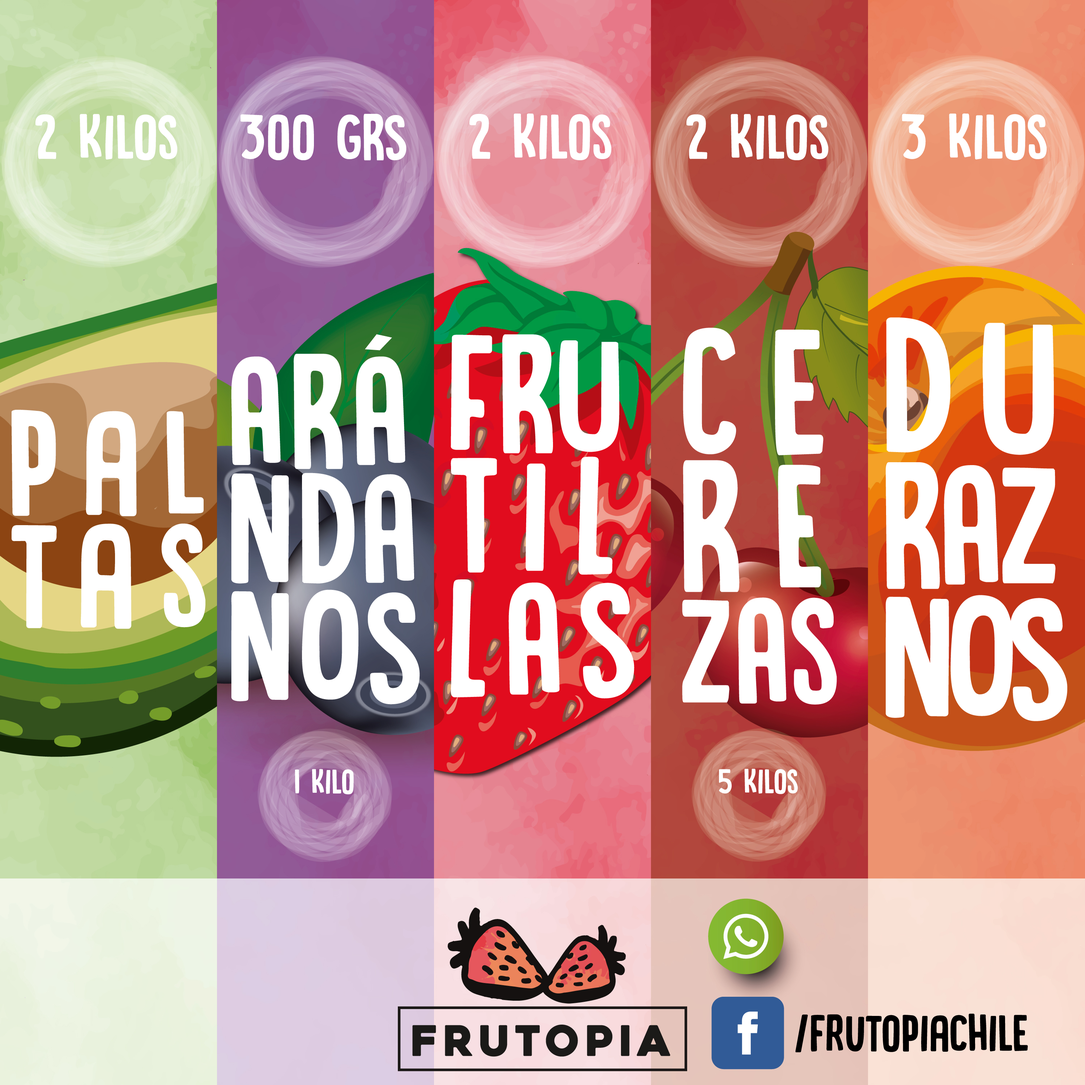
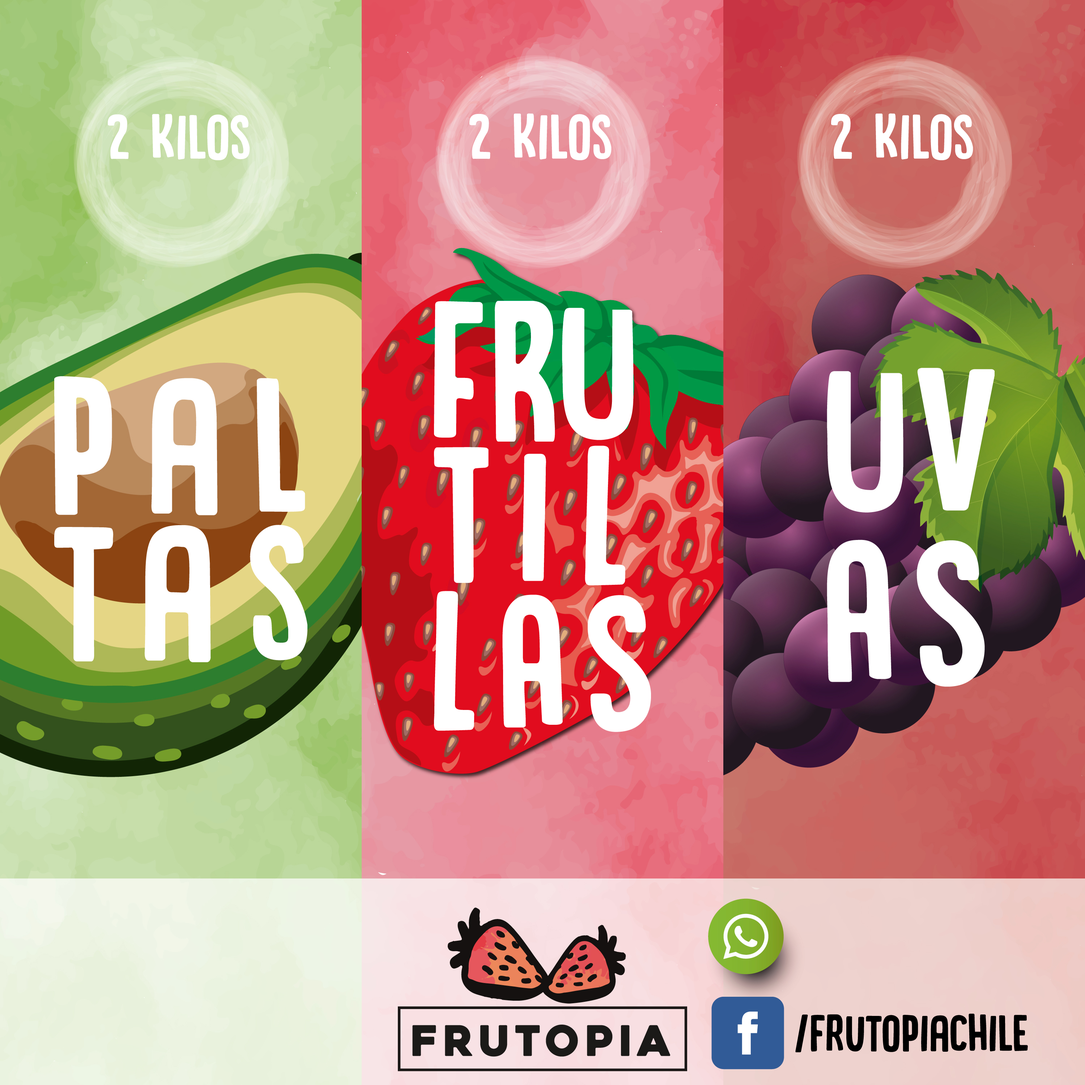
Difusion multiple

diff --git a/templates/difusion_multiple.html b/templates/difusion_multiple.html
@@ -48,20 +48,13 @@
               </svg>
             <input type="text" class="login__input pass" placeholder="Frutillas" 
             name="frutillas" size="25" value="{{ request.form.frutillas }}"/>
-          </div>
+          </div>|
 		  <div class="login__row">
             <svg class="login__icon svg-phone" viewBox="0 0 59 59" width="512px" height="512px">
                 <path d="M48.034,16.529c0.097-0.028,0.193-0.056,0.291-0.085c0.297-0.088,0.535-0.31,0.646-0.598c0.059-0.153,0.073-0.314,0.055-0.473c-0.005-0.171-0.042-0.339-0.132-0.489c-1.857-3.068-5.131-5.108-9.743-6.081c0.567-0.781,0.99-1.623,1.259-2.521c0.04-0.134,0.047-0.269,0.032-0.4c-0.012-0.396-0.25-0.762-0.641-0.907c-3.667-1.365-5.9-0.792-7.122-0.081c-0.334-0.382-0.803-0.659-1.374-0.832l-0.269-3.147c-0.026-0.298-0.184-0.57-0.431-0.739c-0.247-0.169-0.557-0.219-0.845-0.135l-5,1.456c-0.262,0.076-0.48,0.255-0.607,0.497c-0.126,0.241-0.148,0.523-0.062,0.781l0.696,2.073c-1.239-0.688-3.451-1.207-7.036,0.127c-0.391,0.145-0.629,0.511-0.641,0.907c-0.015,0.131-0.008,0.266,0.032,0.4c0.282,0.943,0.725,1.818,1.317,2.62c-4.564,0.969-7.617,2.948-9.297,6.021c-0.081,0.148-0.112,0.312-0.112,0.477c-0.014,0.157,0.003,0.317,0.065,0.467c0.115,0.279,0.349,0.491,0.638,0.578c0.356,0.106,0.71,0.203,1.063,0.29c-1.917,2.668-2.853,6.394-2.853,11.318C7.961,41.71,21.316,59,29.5,59s21.539-17.29,21.539-30.949C51.038,23.002,50.053,19.211,48.034,16.529z M11.685,14.812c1.746-2.204,4.686-3.578,8.943-4.18c0.386-0.055,0.705-0.329,0.817-0.702c0.032-0.108,0.041-0.218,0.036-0.327c0.013-0.297-0.102-0.591-0.331-0.794c-0.741-0.656-1.31-1.396-1.706-2.207c3.743-1.081,4.932,0.482,4.972,0.536c0.233,0.36,0.671,0.533,1.087,0.426c0.061-0.015,0.119-0.036,0.174-0.062l0.15,0.446l1.13,3.369c0.072,0.213,0.21,0.385,0.384,0.505c0.005,0.003,0.008,0.009,0.013,0.012c0.018,0.012,0.04,0.013,0.059,0.024c0.081,0.047,0.166,0.082,0.257,0.105c0.017,0.004,0.031,0.016,0.048,0.019c0.023,0.004,0.048-0.003,0.071-0.001C27.827,11.986,27.864,12,27.904,12c0.068,0,0.137-0.007,0.205-0.021l2.937-0.614c0.495-0.104,0.835-0.561,0.792-1.064v0c0,0,0,0,0,0L31.58,7.283c0.122,0.122,0.277,0.215,0.451,0.264c0.404,0.112,0.844-0.048,1.091-0.388c0.053-0.073,1.243-1.637,4.982-0.558c-0.382,0.768-0.926,1.48-1.634,2.124c-0.225,0.204-0.336,0.496-0.321,0.791c-0.004,0.109,0.005,0.22,0.039,0.328c0.114,0.371,0.433,0.642,0.817,0.695c4.345,0.608,7.413,2.019,9.331,4.29c-4.077,1.004-6.265,0.522-7.398-0.107c-1.092-0.606-1.323-1.41-1.327-1.424c-0.109-0.479-0.538-0.809-1.041-0.776c-0.49,0.033-0.885,0.417-0.93,0.906c-0.502,5.43-4.277,7.462-5.634,8.022c-1.357-0.56-5.132-2.592-5.634-8.022c-0.039-0.424-0.346-0.771-0.759-0.874c-0.079-0.02-0.158-0.029-0.237-0.029c-0.335,0-0.657,0.17-0.845,0.459C22.421,13.15,19.906,16.826,11.685,14.812z M29.146,2.301l0.228,2.668c0,0.001,0,0.001,0,0.002l0.396,4.618L28.57,9.839l-1.474-4.394l0-0.001l-0.778-2.321L29.146,2.301zM29.5,57C22.426,57,9.961,40.264,9.961,28.051c0-5.023,1.029-8.591,3.118-10.916c5.034,0.828,8.027-0.416,9.621-1.569c1.373,5.661,5.98,7.552,6.975,7.898c0.106,0.037,0.217,0.056,0.329,0.056c0.111,0,0.222-0.019,0.329-0.056c0.971-0.338,5.385-2.146,6.872-7.499c0.193,0.152,0.409,0.301,0.651,0.442c1.872,1.092,4.542,1.276,7.933,0.584c2.178,2.322,3.251,5.937,3.251,11.06C49.038,40.264,36.574,57,29.5,57zM17.499,21.672c0,0-1.516,5.294-1.516,5.805c0,0.511,0.199,0.992,0.561,1.354c0.361,0.362,0.842,0.561,1.353,0.561c0.511,0,0.992-0.199,1.353-0.561c0.362-0.362,0.561-0.842,0.561-1.354c0-0.511-1.516-5.805-1.516-5.805C18.173,21.281,17.62,21.281,17.499,21.672zM29.327,25.672c0,0-1.516,5.294-1.516,5.805c0,0.511,0.199,0.992,0.561,1.354c0.361,0.362,0.842,0.561,1.353,0.561c0.511,0,0.992-0.199,1.353-0.561c0.362-0.362,0.561-0.842,0.561-1.354c0-0.511-1.516-5.805-1.516-5.805C30.002,25.281,29.448,25.281,29.327,25.672zM41.295,21.66c-0.122-0.391-0.675-0.391-0.796,0c0,0-1.516,5.294-1.516,5.805c0,0.511,0.199,0.992,0.561,1.354c0.361,0.362,0.842,0.561,1.353,0.561c0.511,0,0.992-0.199,1.353-0.561c0.362-0.362,0.561-0.842,0.561-1.354C42.811,26.953,41.295,21.66,41.295,21.66zM22.327,34.684c0,0-1.516,5.294-1.516,5.805c0,0.511,0.199,0.992,0.561,1.354c0.361,0.362,0.842,0.561,1.353,0.561c0.511,0,0.992-0.199,1.353-0.561c0.362-0.362,0.561-0.842,0.561-1.354c0-0.511-1.516-5.805-1.516-5.805C23.002,34.293,22.448,34.293,22.327,34.684zM29.327,43.66c0,0-1.516,5.294-1.516,5.805c0,0.511,0.199,0.992,0.561,1.354c0.361,0.362,0.842,0.561,1.353,0.561c0.511,0,0.992-0.199,1.353-0.561c0.362-0.362,0.561-0.842,0.561-1.354c0-0.511-1.516-5.805-1.516-5.805C30.002,43.269,29.448,43.269,29.327,43.66zM36.327,34.672c0,0-1.516,5.294-1.516,5.805c0,0.511,0.199,0.992,0.561,1.354c0.361,0.362,0.842,0.561,1.353,0.561c0.511,0,0.992-0.199,1.353-0.561c0.362-0.362,0.561-0.842,0.561-1.354c0-0.511-1.516-5.805-1.516-5.805C37.002,34.281,36.448,34.281,36.327,34.672z" fill="#FFFFFF"/>
               </svg>
-            <input type="text" class="login__input pass" placeholder="Cerezas 2kg" 
-            name="cerezas2" size="25" value="{{ request.form.cerezas2 }}"/>
-          </div>
-		  <div class="login__row">
-            <svg class="login__icon svg-phone" viewBox="0 0 59 59" width="512px" height="512px">
-                <path d="M48.034,16.529c0.097-0.028,0.193-0.056,0.291-0.085c0.297-0.088,0.535-0.31,0.646-0.598c0.059-0.153,0.073-0.314,0.055-0.473c-0.005-0.171-0.042-0.339-0.132-0.489c-1.857-3.068-5.131-5.108-9.743-6.081c0.567-0.781,0.99-1.623,1.259-2.521c0.04-0.134,0.047-0.269,0.032-0.4c-0.012-0.396-0.25-0.762-0.641-0.907c-3.667-1.365-5.9-0.792-7.122-0.081c-0.334-0.382-0.803-0.659-1.374-0.832l-0.269-3.147c-0.026-0.298-0.184-0.57-0.431-0.739c-0.247-0.169-0.557-0.219-0.845-0.135l-5,1.456c-0.262,0.076-0.48,0.255-0.607,0.497c-0.126,0.241-0.148,0.523-0.062,0.781l0.696,2.073c-1.239-0.688-3.451-1.207-7.036,0.127c-0.391,0.145-0.629,0.511-0.641,0.907c-0.015,0.131-0.008,0.266,0.032,0.4c0.282,0.943,0.725,1.818,1.317,2.62c-4.564,0.969-7.617,2.948-9.297,6.021c-0.081,0.148-0.112,0.312-0.112,0.477c-0.014,0.157,0.003,0.317,0.065,0.467c0.115,0.279,0.349,0.491,0.638,0.578c0.356,0.106,0.71,0.203,1.063,0.29c-1.917,2.668-2.853,6.394-2.853,11.318C7.961,41.71,21.316,59,29.5,59s21.539-17.29,21.539-30.949C51.038,23.002,50.053,19.211,48.034,16.529z M11.685,14.812c1.746-2.204,4.686-3.578,8.943-4.18c0.386-0.055,0.705-0.329,0.817-0.702c0.032-0.108,0.041-0.218,0.036-0.327c0.013-0.297-0.102-0.591-0.331-0.794c-0.741-0.656-1.31-1.396-1.706-2.207c3.743-1.081,4.932,0.482,4.972,0.536c0.233,0.36,0.671,0.533,1.087,0.426c0.061-0.015,0.119-0.036,0.174-0.062l0.15,0.446l1.13,3.369c0.072,0.213,0.21,0.385,0.384,0.505c0.005,0.003,0.008,0.009,0.013,0.012c0.018,0.012,0.04,0.013,0.059,0.024c0.081,0.047,0.166,0.082,0.257,0.105c0.017,0.004,0.031,0.016,0.048,0.019c0.023,0.004,0.048-0.003,0.071-0.001C27.827,11.986,27.864,12,27.904,12c0.068,0,0.137-0.007,0.205-0.021l2.937-0.614c0.495-0.104,0.835-0.561,0.792-1.064v0c0,0,0,0,0,0L31.58,7.283c0.122,0.122,0.277,0.215,0.451,0.264c0.404,0.112,0.844-0.048,1.091-0.388c0.053-0.073,1.243-1.637,4.982-0.558c-0.382,0.768-0.926,1.48-1.634,2.124c-0.225,0.204-0.336,0.496-0.321,0.791c-0.004,0.109,0.005,0.22,0.039,0.328c0.114,0.371,0.433,0.642,0.817,0.695c4.345,0.608,7.413,2.019,9.331,4.29c-4.077,1.004-6.265,0.522-7.398-0.107c-1.092-0.606-1.323-1.41-1.327-1.424c-0.109-0.479-0.538-0.809-1.041-0.776c-0.49,0.033-0.885,0.417-0.93,0.906c-0.502,5.43-4.277,7.462-5.634,8.022c-1.357-0.56-5.132-2.592-5.634-8.022c-0.039-0.424-0.346-0.771-0.759-0.874c-0.079-0.02-0.158-0.029-0.237-0.029c-0.335,0-0.657,0.17-0.845,0.459C22.421,13.15,19.906,16.826,11.685,14.812z M29.146,2.301l0.228,2.668c0,0.001,0,0.001,0,0.002l0.396,4.618L28.57,9.839l-1.474-4.394l0-0.001l-0.778-2.321L29.146,2.301zM29.5,57C22.426,57,9.961,40.264,9.961,28.051c0-5.023,1.029-8.591,3.118-10.916c5.034,0.828,8.027-0.416,9.621-1.569c1.373,5.661,5.98,7.552,6.975,7.898c0.106,0.037,0.217,0.056,0.329,0.056c0.111,0,0.222-0.019,0.329-0.056c0.971-0.338,5.385-2.146,6.872-7.499c0.193,0.152,0.409,0.301,0.651,0.442c1.872,1.092,4.542,1.276,7.933,0.584c2.178,2.322,3.251,5.937,3.251,11.06C49.038,40.264,36.574,57,29.5,57zM17.499,21.672c0,0-1.516,5.294-1.516,5.805c0,0.511,0.199,0.992,0.561,1.354c0.361,0.362,0.842,0.561,1.353,0.561c0.511,0,0.992-0.199,1.353-0.561c0.362-0.362,0.561-0.842,0.561-1.354c0-0.511-1.516-5.805-1.516-5.805C18.173,21.281,17.62,21.281,17.499,21.672zM29.327,25.672c0,0-1.516,5.294-1.516,5.805c0,0.511,0.199,0.992,0.561,1.354c0.361,0.362,0.842,0.561,1.353,0.561c0.511,0,0.992-0.199,1.353-0.561c0.362-0.362,0.561-0.842,0.561-1.354c0-0.511-1.516-5.805-1.516-5.805C30.002,25.281,29.448,25.281,29.327,25.672zM41.295,21.66c-0.122-0.391-0.675-0.391-0.796,0c0,0-1.516,5.294-1.516,5.805c0,0.511,0.199,0.992,0.561,1.354c0.361,0.362,0.842,0.561,1.353,0.561c0.511,0,0.992-0.199,1.353-0.561c0.362-0.362,0.561-0.842,0.561-1.354C42.811,26.953,41.295,21.66,41.295,21.66zM22.327,34.684c0,0-1.516,5.294-1.516,5.805c0,0.511,0.199,0.992,0.561,1.354c0.361,0.362,0.842,0.561,1.353,0.561c0.511,0,0.992-0.199,1.353-0.561c0.362-0.362,0.561-0.842,0.561-1.354c0-0.511-1.516-5.805-1.516-5.805C23.002,34.293,22.448,34.293,22.327,34.684zM29.327,43.66c0,0-1.516,5.294-1.516,5.805c0,0.511,0.199,0.992,0.561,1.354c0.361,0.362,0.842,0.561,1.353,0.561c0.511,0,0.992-0.199,1.353-0.561c0.362-0.362,0.561-0.842,0.561-1.354c0-0.511-1.516-5.805-1.516-5.805C30.002,43.269,29.448,43.269,29.327,43.66zM36.327,34.672c0,0-1.516,5.294-1.516,5.805c0,0.511,0.199,0.992,0.561,1.354c0.361,0.362,0.842,0.561,1.353,0.561c0.511,0,0.992-0.199,1.353-0.561c0.362-0.362,0.561-0.842,0.561-1.354c0-0.511-1.516-5.805-1.516-5.805C37.002,34.281,36.448,34.281,36.327,34.672z" fill="#FFFFFF"/>
-              </svg>
-            <input type="text" class="login__input pass" placeholder="Cerezas 5kg" 
-            name="cerezas5" size="25" value="{{ request.form.cerezas5 }}"/>
+            <input type="text" class="login__input pass" placeholder="Uvas" 
+            name="uvas" size="25" value="{{ request.form.uvas }}"/>
           </div>
 		  <div class="login__row">
             <svg class="login__icon svg-phone" viewBox="0 0 59 59" width="512px" height="512px">
@@ -69,27 +62,6 @@
               </svg>
             <input type="text" class="login__input pass" placeholder="Paltas" 
             name="paltas" size="25" value="{{ request.form.paltas }}"/>
-          </div>
-		  <div class="login__row">
-            <svg class="login__icon svg-phone" viewBox="0 0 59 59" width="512px" height="512px">
-                <path d="M48.034,16.529c0.097-0.028,0.193-0.056,0.291-0.085c0.297-0.088,0.535-0.31,0.646-0.598c0.059-0.153,0.073-0.314,0.055-0.473c-0.005-0.171-0.042-0.339-0.132-0.489c-1.857-3.068-5.131-5.108-9.743-6.081c0.567-0.781,0.99-1.623,1.259-2.521c0.04-0.134,0.047-0.269,0.032-0.4c-0.012-0.396-0.25-0.762-0.641-0.907c-3.667-1.365-5.9-0.792-7.122-0.081c-0.334-0.382-0.803-0.659-1.374-0.832l-0.269-3.147c-0.026-0.298-0.184-0.57-0.431-0.739c-0.247-0.169-0.557-0.219-0.845-0.135l-5,1.456c-0.262,0.076-0.48,0.255-0.607,0.497c-0.126,0.241-0.148,0.523-0.062,0.781l0.696,2.073c-1.239-0.688-3.451-1.207-7.036,0.127c-0.391,0.145-0.629,0.511-0.641,0.907c-0.015,0.131-0.008,0.266,0.032,0.4c0.282,0.943,0.725,1.818,1.317,2.62c-4.564,0.969-7.617,2.948-9.297,6.021c-0.081,0.148-0.112,0.312-0.112,0.477c-0.014,0.157,0.003,0.317,0.065,0.467c0.115,0.279,0.349,0.491,0.638,0.578c0.356,0.106,0.71,0.203,1.063,0.29c-1.917,2.668-2.853,6.394-2.853,11.318C7.961,41.71,21.316,59,29.5,59s21.539-17.29,21.539-30.949C51.038,23.002,50.053,19.211,48.034,16.529z M11.685,14.812c1.746-2.204,4.686-3.578,8.943-4.18c0.386-0.055,0.705-0.329,0.817-0.702c0.032-0.108,0.041-0.218,0.036-0.327c0.013-0.297-0.102-0.591-0.331-0.794c-0.741-0.656-1.31-1.396-1.706-2.207c3.743-1.081,4.932,0.482,4.972,0.536c0.233,0.36,0.671,0.533,1.087,0.426c0.061-0.015,0.119-0.036,0.174-0.062l0.15,0.446l1.13,3.369c0.072,0.213,0.21,0.385,0.384,0.505c0.005,0.003,0.008,0.009,0.013,0.012c0.018,0.012,0.04,0.013,0.059,0.024c0.081,0.047,0.166,0.082,0.257,0.105c0.017,0.004,0.031,0.016,0.048,0.019c0.023,0.004,0.048-0.003,0.071-0.001C27.827,11.986,27.864,12,27.904,12c0.068,0,0.137-0.007,0.205-0.021l2.937-0.614c0.495-0.104,0.835-0.561,0.792-1.064v0c0,0,0,0,0,0L31.58,7.283c0.122,0.122,0.277,0.215,0.451,0.264c0.404,0.112,0.844-0.048,1.091-0.388c0.053-0.073,1.243-1.637,4.982-0.558c-0.382,0.768-0.926,1.48-1.634,2.124c-0.225,0.204-0.336,0.496-0.321,0.791c-0.004,0.109,0.005,0.22,0.039,0.328c0.114,0.371,0.433,0.642,0.817,0.695c4.345,0.608,7.413,2.019,9.331,4.29c-4.077,1.004-6.265,0.522-7.398-0.107c-1.092-0.606-1.323-1.41-1.327-1.424c-0.109-0.479-0.538-0.809-1.041-0.776c-0.49,0.033-0.885,0.417-0.93,0.906c-0.502,5.43-4.277,7.462-5.634,8.022c-1.357-0.56-5.132-2.592-5.634-8.022c-0.039-0.424-0.346-0.771-0.759-0.874c-0.079-0.02-0.158-0.029-0.237-0.029c-0.335,0-0.657,0.17-0.845,0.459C22.421,13.15,19.906,16.826,11.685,14.812z M29.146,2.301l0.228,2.668c0,0.001,0,0.001,0,0.002l0.396,4.618L28.57,9.839l-1.474-4.394l0-0.001l-0.778-2.321L29.146,2.301zM29.5,57C22.426,57,9.961,40.264,9.961,28.051c0-5.023,1.029-8.591,3.118-10.916c5.034,0.828,8.027-0.416,9.621-1.569c1.373,5.661,5.98,7.552,6.975,7.898c0.106,0.037,0.217,0.056,0.329,0.056c0.111,0,0.222-0.019,0.329-0.056c0.971-0.338,5.385-2.146,6.872-7.499c0.193,0.152,0.409,0.301,0.651,0.442c1.872,1.092,4.542,1.276,7.933,0.584c2.178,2.322,3.251,5.937,3.251,11.06C49.038,40.264,36.574,57,29.5,57zM17.499,21.672c0,0-1.516,5.294-1.516,5.805c0,0.511,0.199,0.992,0.561,1.354c0.361,0.362,0.842,0.561,1.353,0.561c0.511,0,0.992-0.199,1.353-0.561c0.362-0.362,0.561-0.842,0.561-1.354c0-0.511-1.516-5.805-1.516-5.805C18.173,21.281,17.62,21.281,17.499,21.672zM29.327,25.672c0,0-1.516,5.294-1.516,5.805c0,0.511,0.199,0.992,0.561,1.354c0.361,0.362,0.842,0.561,1.353,0.561c0.511,0,0.992-0.199,1.353-0.561c0.362-0.362,0.561-0.842,0.561-1.354c0-0.511-1.516-5.805-1.516-5.805C30.002,25.281,29.448,25.281,29.327,25.672zM41.295,21.66c-0.122-0.391-0.675-0.391-0.796,0c0,0-1.516,5.294-1.516,5.805c0,0.511,0.199,0.992,0.561,1.354c0.361,0.362,0.842,0.561,1.353,0.561c0.511,0,0.992-0.199,1.353-0.561c0.362-0.362,0.561-0.842,0.561-1.354C42.811,26.953,41.295,21.66,41.295,21.66zM22.327,34.684c0,0-1.516,5.294-1.516,5.805c0,0.511,0.199,0.992,0.561,1.354c0.361,0.362,0.842,0.561,1.353,0.561c0.511,0,0.992-0.199,1.353-0.561c0.362-0.362,0.561-0.842,0.561-1.354c0-0.511-1.516-5.805-1.516-5.805C23.002,34.293,22.448,34.293,22.327,34.684zM29.327,43.66c0,0-1.516,5.294-1.516,5.805c0,0.511,0.199,0.992,0.561,1.354c0.361,0.362,0.842,0.561,1.353,0.561c0.511,0,0.992-0.199,1.353-0.561c0.362-0.362,0.561-0.842,0.561-1.354c0-0.511-1.516-5.805-1.516-5.805C30.002,43.269,29.448,43.269,29.327,43.66zM36.327,34.672c0,0-1.516,5.294-1.516,5.805c0,0.511,0.199,0.992,0.561,1.354c0.361,0.362,0.842,0.561,1.353,0.561c0.511,0,0.992-0.199,1.353-0.561c0.362-0.362,0.561-0.842,0.561-1.354c0-0.511-1.516-5.805-1.516-5.805C37.002,34.281,36.448,34.281,36.327,34.672z" fill="#FFFFFF"/>
-              </svg>
-            <input type="text" class="login__input pass" placeholder="Arandanos 300 gr" 
-            name="arandanos3" size="25" value="{{ request.form.arandanos3 }}"/>
-          </div>
-		  <div class="login__row">
-            <svg class="login__icon svg-phone" viewBox="0 0 59 59" width="512px" height="512px">
-                <path d="M48.034,16.529c0.097-0.028,0.193-0.056,0.291-0.085c0.297-0.088,0.535-0.31,0.646-0.598c0.059-0.153,0.073-0.314,0.055-0.473c-0.005-0.171-0.042-0.339-0.132-0.489c-1.857-3.068-5.131-5.108-9.743-6.081c0.567-0.781,0.99-1.623,1.259-2.521c0.04-0.134,0.047-0.269,0.032-0.4c-0.012-0.396-0.25-0.762-0.641-0.907c-3.667-1.365-5.9-0.792-7.122-0.081c-0.334-0.382-0.803-0.659-1.374-0.832l-0.269-3.147c-0.026-0.298-0.184-0.57-0.431-0.739c-0.247-0.169-0.557-0.219-0.845-0.135l-5,1.456c-0.262,0.076-0.48,0.255-0.607,0.497c-0.126,0.241-0.148,0.523-0.062,0.781l0.696,2.073c-1.239-0.688-3.451-1.207-7.036,0.127c-0.391,0.145-0.629,0.511-0.641,0.907c-0.015,0.131-0.008,0.266,0.032,0.4c0.282,0.943,0.725,1.818,1.317,2.62c-4.564,0.969-7.617,2.948-9.297,6.021c-0.081,0.148-0.112,0.312-0.112,0.477c-0.014,0.157,0.003,0.317,0.065,0.467c0.115,0.279,0.349,0.491,0.638,0.578c0.356,0.106,0.71,0.203,1.063,0.29c-1.917,2.668-2.853,6.394-2.853,11.318C7.961,41.71,21.316,59,29.5,59s21.539-17.29,21.539-30.949C51.038,23.002,50.053,19.211,48.034,16.529z M11.685,14.812c1.746-2.204,4.686-3.578,8.943-4.18c0.386-0.055,0.705-0.329,0.817-0.702c0.032-0.108,0.041-0.218,0.036-0.327c0.013-0.297-0.102-0.591-0.331-0.794c-0.741-0.656-1.31-1.396-1.706-2.207c3.743-1.081,4.932,0.482,4.972,0.536c0.233,0.36,0.671,0.533,1.087,0.426c0.061-0.015,0.119-0.036,0.174-0.062l0.15,0.446l1.13,3.369c0.072,0.213,0.21,0.385,0.384,0.505c0.005,0.003,0.008,0.009,0.013,0.012c0.018,0.012,0.04,0.013,0.059,0.024c0.081,0.047,0.166,0.082,0.257,0.105c0.017,0.004,0.031,0.016,0.048,0.019c0.023,0.004,0.048-0.003,0.071-0.001C27.827,11.986,27.864,12,27.904,12c0.068,0,0.137-0.007,0.205-0.021l2.937-0.614c0.495-0.104,0.835-0.561,0.792-1.064v0c0,0,0,0,0,0L31.58,7.283c0.122,0.122,0.277,0.215,0.451,0.264c0.404,0.112,0.844-0.048,1.091-0.388c0.053-0.073,1.243-1.637,4.982-0.558c-0.382,0.768-0.926,1.48-1.634,2.124c-0.225,0.204-0.336,0.496-0.321,0.791c-0.004,0.109,0.005,0.22,0.039,0.328c0.114,0.371,0.433,0.642,0.817,0.695c4.345,0.608,7.413,2.019,9.331,4.29c-4.077,1.004-6.265,0.522-7.398-0.107c-1.092-0.606-1.323-1.41-1.327-1.424c-0.109-0.479-0.538-0.809-1.041-0.776c-0.49,0.033-0.885,0.417-0.93,0.906c-0.502,5.43-4.277,7.462-5.634,8.022c-1.357-0.56-5.132-2.592-5.634-8.022c-0.039-0.424-0.346-0.771-0.759-0.874c-0.079-0.02-0.158-0.029-0.237-0.029c-0.335,0-0.657,0.17-0.845,0.459C22.421,13.15,19.906,16.826,11.685,14.812z M29.146,2.301l0.228,2.668c0,0.001,0,0.001,0,0.002l0.396,4.618L28.57,9.839l-1.474-4.394l0-0.001l-0.778-2.321L29.146,2.301zM29.5,57C22.426,57,9.961,40.264,9.961,28.051c0-5.023,1.029-8.591,3.118-10.916c5.034,0.828,8.027-0.416,9.621-1.569c1.373,5.661,5.98,7.552,6.975,7.898c0.106,0.037,0.217,0.056,0.329,0.056c0.111,0,0.222-0.019,0.329-0.056c0.971-0.338,5.385-2.146,6.872-7.499c0.193,0.152,0.409,0.301,0.651,0.442c1.872,1.092,4.542,1.276,7.933,0.584c2.178,2.322,3.251,5.937,3.251,11.06C49.038,40.264,36.574,57,29.5,57zM17.499,21.672c0,0-1.516,5.294-1.516,5.805c0,0.511,0.199,0.992,0.561,1.354c0.361,0.362,0.842,0.561,1.353,0.561c0.511,0,0.992-0.199,1.353-0.561c0.362-0.362,0.561-0.842,0.561-1.354c0-0.511-1.516-5.805-1.516-5.805C18.173,21.281,17.62,21.281,17.499,21.672zM29.327,25.672c0,0-1.516,5.294-1.516,5.805c0,0.511,0.199,0.992,0.561,1.354c0.361,0.362,0.842,0.561,1.353,0.561c0.511,0,0.992-0.199,1.353-0.561c0.362-0.362,0.561-0.842,0.561-1.354c0-0.511-1.516-5.805-1.516-5.805C30.002,25.281,29.448,25.281,29.327,25.672zM41.295,21.66c-0.122-0.391-0.675-0.391-0.796,0c0,0-1.516,5.294-1.516,5.805c0,0.511,0.199,0.992,0.561,1.354c0.361,0.362,0.842,0.561,1.353,0.561c0.511,0,0.992-0.199,1.353-0.561c0.362-0.362,0.561-0.842,0.561-1.354C42.811,26.953,41.295,21.66,41.295,21.66zM22.327,34.684c0,0-1.516,5.294-1.516,5.805c0,0.511,0.199,0.992,0.561,1.354c0.361,0.362,0.842,0.561,1.353,0.561c0.511,0,0.992-0.199,1.353-0.561c0.362-0.362,0.561-0.842,0.561-1.354c0-0.511-1.516-5.805-1.516-5.805C23.002,34.293,22.448,34.293,22.327,34.684zM29.327,43.66c0,0-1.516,5.294-1.516,5.805c0,0.511,0.199,0.992,0.561,1.354c0.361,0.362,0.842,0.561,1.353,0.561c0.511,0,0.992-0.199,1.353-0.561c0.362-0.362,0.561-0.842,0.561-1.354c0-0.511-1.516-5.805-1.516-5.805C30.002,43.269,29.448,43.269,29.327,43.66zM36.327,34.672c0,0-1.516,5.294-1.516,5.805c0,0.511,0.199,0.992,0.561,1.354c0.361,0.362,0.842,0.561,1.353,0.561c0.511,0,0.992-0.199,1.353-0.561c0.362-0.362,0.561-0.842,0.561-1.354c0-0.511-1.516-5.805-1.516-5.805C37.002,34.281,36.448,34.281,36.327,34.672z" fill="#FFFFFF"/>
-              </svg>
-            <input type="text" class="login__input pass" placeholder="Arandanos 1kg" 
-            name="arandanos1" size="25" value="{{ request.form.arandanos1 }}"/>
-          </div>
-		  <div class="login__row">
-            <svg class="login__icon svg-phone" viewBox="0 0 59 59" width="512px" height="512px">
-                <path d="M48.034,16.529c0.097-0.028,0.193-0.056,0.291-0.085c0.297-0.088,0.535-0.31,0.646-0.598c0.059-0.153,0.073-0.314,0.055-0.473c-0.005-0.171-0.042-0.339-0.132-0.489c-1.857-3.068-5.131-5.108-9.743-6.081c0.567-0.781,0.99-1.623,1.259-2.521c0.04-0.134,0.047-0.269,0.032-0.4c-0.012-0.396-0.25-0.762-0.641-0.907c-3.667-1.365-5.9-0.792-7.122-0.081c-0.334-0.382-0.803-0.659-1.374-0.832l-0.269-3.147c-0.026-0.298-0.184-0.57-0.431-0.739c-0.247-0.169-0.557-0.219-0.845-0.135l-5,1.456c-0.262,0.076-0.48,0.255-0.607,0.497c-0.126,0.241-0.148,0.523-0.062,0.781l0.696,2.073c-1.239-0.688-3.451-1.207-7.036,0.127c-0.391,0.145-0.629,0.511-0.641,0.907c-0.015,0.131-0.008,0.266,0.032,0.4c0.282,0.943,0.725,1.818,1.317,2.62c-4.564,0.969-7.617,2.948-9.297,6.021c-0.081,0.148-0.112,0.312-0.112,0.477c-0.014,0.157,0.003,0.317,0.065,0.467c0.115,0.279,0.349,0.491,0.638,0.578c0.356,0.106,0.71,0.203,1.063,0.29c-1.917,2.668-2.853,6.394-2.853,11.318C7.961,41.71,21.316,59,29.5,59s21.539-17.29,21.539-30.949C51.038,23.002,50.053,19.211,48.034,16.529z M11.685,14.812c1.746-2.204,4.686-3.578,8.943-4.18c0.386-0.055,0.705-0.329,0.817-0.702c0.032-0.108,0.041-0.218,0.036-0.327c0.013-0.297-0.102-0.591-0.331-0.794c-0.741-0.656-1.31-1.396-1.706-2.207c3.743-1.081,4.932,0.482,4.972,0.536c0.233,0.36,0.671,0.533,1.087,0.426c0.061-0.015,0.119-0.036,0.174-0.062l0.15,0.446l1.13,3.369c0.072,0.213,0.21,0.385,0.384,0.505c0.005,0.003,0.008,0.009,0.013,0.012c0.018,0.012,0.04,0.013,0.059,0.024c0.081,0.047,0.166,0.082,0.257,0.105c0.017,0.004,0.031,0.016,0.048,0.019c0.023,0.004,0.048-0.003,0.071-0.001C27.827,11.986,27.864,12,27.904,12c0.068,0,0.137-0.007,0.205-0.021l2.937-0.614c0.495-0.104,0.835-0.561,0.792-1.064v0c0,0,0,0,0,0L31.58,7.283c0.122,0.122,0.277,0.215,0.451,0.264c0.404,0.112,0.844-0.048,1.091-0.388c0.053-0.073,1.243-1.637,4.982-0.558c-0.382,0.768-0.926,1.48-1.634,2.124c-0.225,0.204-0.336,0.496-0.321,0.791c-0.004,0.109,0.005,0.22,0.039,0.328c0.114,0.371,0.433,0.642,0.817,0.695c4.345,0.608,7.413,2.019,9.331,4.29c-4.077,1.004-6.265,0.522-7.398-0.107c-1.092-0.606-1.323-1.41-1.327-1.424c-0.109-0.479-0.538-0.809-1.041-0.776c-0.49,0.033-0.885,0.417-0.93,0.906c-0.502,5.43-4.277,7.462-5.634,8.022c-1.357-0.56-5.132-2.592-5.634-8.022c-0.039-0.424-0.346-0.771-0.759-0.874c-0.079-0.02-0.158-0.029-0.237-0.029c-0.335,0-0.657,0.17-0.845,0.459C22.421,13.15,19.906,16.826,11.685,14.812z M29.146,2.301l0.228,2.668c0,0.001,0,0.001,0,0.002l0.396,4.618L28.57,9.839l-1.474-4.394l0-0.001l-0.778-2.321L29.146,2.301zM29.5,57C22.426,57,9.961,40.264,9.961,28.051c0-5.023,1.029-8.591,3.118-10.916c5.034,0.828,8.027-0.416,9.621-1.569c1.373,5.661,5.98,7.552,6.975,7.898c0.106,0.037,0.217,0.056,0.329,0.056c0.111,0,0.222-0.019,0.329-0.056c0.971-0.338,5.385-2.146,6.872-7.499c0.193,0.152,0.409,0.301,0.651,0.442c1.872,1.092,4.542,1.276,7.933,0.584c2.178,2.322,3.251,5.937,3.251,11.06C49.038,40.264,36.574,57,29.5,57zM17.499,21.672c0,0-1.516,5.294-1.516,5.805c0,0.511,0.199,0.992,0.561,1.354c0.361,0.362,0.842,0.561,1.353,0.561c0.511,0,0.992-0.199,1.353-0.561c0.362-0.362,0.561-0.842,0.561-1.354c0-0.511-1.516-5.805-1.516-5.805C18.173,21.281,17.62,21.281,17.499,21.672zM29.327,25.672c0,0-1.516,5.294-1.516,5.805c0,0.511,0.199,0.992,0.561,1.354c0.361,0.362,0.842,0.561,1.353,0.561c0.511,0,0.992-0.199,1.353-0.561c0.362-0.362,0.561-0.842,0.561-1.354c0-0.511-1.516-5.805-1.516-5.805C30.002,25.281,29.448,25.281,29.327,25.672zM41.295,21.66c-0.122-0.391-0.675-0.391-0.796,0c0,0-1.516,5.294-1.516,5.805c0,0.511,0.199,0.992,0.561,1.354c0.361,0.362,0.842,0.561,1.353,0.561c0.511,0,0.992-0.199,1.353-0.561c0.362-0.362,0.561-0.842,0.561-1.354C42.811,26.953,41.295,21.66,41.295,21.66zM22.327,34.684c0,0-1.516,5.294-1.516,5.805c0,0.511,0.199,0.992,0.561,1.354c0.361,0.362,0.842,0.561,1.353,0.561c0.511,0,0.992-0.199,1.353-0.561c0.362-0.362,0.561-0.842,0.561-1.354c0-0.511-1.516-5.805-1.516-5.805C23.002,34.293,22.448,34.293,22.327,34.684zM29.327,43.66c0,0-1.516,5.294-1.516,5.805c0,0.511,0.199,0.992,0.561,1.354c0.361,0.362,0.842,0.561,1.353,0.561c0.511,0,0.992-0.199,1.353-0.561c0.362-0.362,0.561-0.842,0.561-1.354c0-0.511-1.516-5.805-1.516-5.805C30.002,43.269,29.448,43.269,29.327,43.66zM36.327,34.672c0,0-1.516,5.294-1.516,5.805c0,0.511,0.199,0.992,0.561,1.354c0.361,0.362,0.842,0.561,1.353,0.561c0.511,0,0.992-0.199,1.353-0.561c0.362-0.362,0.561-0.842,0.561-1.354c0-0.511-1.516-5.805-1.516-5.805C37.002,34.281,36.448,34.281,36.327,34.672z" fill="#FFFFFF"/>
-              </svg>
-            <input type="text" class="login__input pass" placeholder="Duraznos" 
-            name="duraznos" size="25" value="{{ request.form.duraznos }}"/>
           </div>
           <input class="login__submit" type="submit" value="Crear difusión">
             {% if error %}

diff --git a/old/main - copia.py b/old/main - copia.py
@@ -1,0 +1,104 @@
+from flask import Flask, render_template, redirect, url_for, request, \
+     send_file, send_from_directory
+from grafica.datos import agregar_datos, agregar_datos_multiples
+from utilidades import mayus
+    
+app = Flask(__name__)
+
+@app.route("/")
+def home():
+    return render_template("home_page.html")
+
+@app.route("/difusion", methods=['GET', 'POST'])
+def difusion():
+    error = None
+    if request.method == 'POST':
+        nombre = request.form["nombre"].lower().strip()
+        apellido = request.form["apellido"].lower().strip()
+        telefono = request.form["telefono"]
+        fruta = request.form["fruta"]
+        precio = request.form["precio"]
+        if len(telefono) < 8:
+            error = "Telefono no válido."
+        else:
+            telefono = "+569" + telefono.strip().replace(" ", "")[-8:]
+            return redirect(url_for(
+                "difusion_datos", nombre=nombre, apellido=apellido,
+                numero=telefono, fruta=fruta, precio=precio))
+    return render_template('difusion_datos.html', error=error)
+
+@app.route("/difusion/<nombre>-<apellido>-<numero>-<fruta>-<precio>")
+def difusion_datos(nombre, apellido, numero, fruta, precio):
+    nombre = mayus(nombre)
+    apellido = mayus(apellido)
+    precio = int(precio)
+    frutas = {
+        "0": "frutillas",
+        "1": "cerezas",
+        "2": "paltas",
+        "3": "arandanos",
+        "4": "duraznos",
+        "5": "uvas"
+        }
+    file = agregar_datos(nombre, apellido, numero, frutas[fruta], precio)
+    return send_file(file, mimetype='image/gif')
+
+@app.route("/difusion_multiple", methods=['GET', 'POST'])
+def difusion_multiple():
+    error = None
+    if request.method == 'POST':
+        nombre = request.form["nombre"].lower().strip()
+        apellido = request.form["apellido"].lower().strip()
+        telefono = request.form["telefono"]
+        frutillas = request.form["frutillas"]
+        cerezas2 = request.form["cerezas2"]
+        cerezas5 = request.form["cerezas5"]
+        paltas = request.form["paltas"]
+        arandanos3 = request.form["arandanos3"]
+        arandanos1 = request.form["arandanos1"]
+        duraznos = request.form["duraznos"]
+        
+        frutillas = 6000 if frutillas == "" else frutillas
+        cerezas2 = 6000 if cerezas2 == "" else cerezas2
+        cerezas5 = 11000 if cerezas5 == "" else cerezas5
+        paltas = 5000 if paltas == "" else paltas
+        arandanos3 = 3000 if arandanos3 == "" else arandanos3
+        arandanos1 = 8000 if arandanos1 == "" else arandanos1
+        duraznos = 6000 if duraznos == "" else duraznos
+        
+        if len(telefono) < 8:
+            error = "Telefono no válido."
+        else:
+            telefono = "+569" + telefono.strip().replace(" ", "")[-8:]
+            return redirect(url_for(
+                "difusion_datos_multiples",
+                nombre=nombre, apellido=apellido, numero=telefono,
+                frutillas=frutillas,
+                cerezas2=cerezas2, cerezas5=cerezas5, paltas=paltas,
+                arandanos3=arandanos3, arandanos1=arandanos1,
+                duraznos=duraznos))
+    return render_template('difusion_multiple.html', error=error)
+
+@app.route(
+    "/difusion_multiple/<nombre>-<apellido>-<numero>-<frutillas>-"+
+    "<cerezas2>-<cerezas5>-<paltas>-<arandanos3>-<arandanos1>-<duraznos>")
+def difusion_datos_multiples(nombre, apellido, numero,
+                   frutillas, cerezas2, cerezas5, paltas,
+                   arandanos3, arandanos1, duraznos):
+    file = agregar_datos_multiples(nombre, apellido, numero,
+                                   frutillas, cerezas2, cerezas5, paltas,
+                                   arandanos3, arandanos1, duraznos)
+    return send_file(file, mimetype='image/gif')
+
+@app.route("/excel_vendedor")
+def excel_vendedor():
+    return send_from_directory(directory="descargas",
+                               filename="Vendedores.xlsx",
+                               as_attachment=True)
+
+@app.route("/construccion")
+def construccion():
+    return "Página en construcción"
+
+if __name__ == "__main__":
+    app.run(host="0.0.0.0")

diff --git a/main.py b/main.py
@@ -51,43 +51,31 @@ def difusion_multiple():
         apellido = request.form["apellido"].lower().strip()
         telefono = request.form["telefono"]
         frutillas = request.form["frutillas"]
-        cerezas2 = request.form["cerezas2"]
-        cerezas5 = request.form["cerezas5"]
+        uvas= request.form["uvas"]
         paltas = request.form["paltas"]
-        arandanos3 = request.form["arandanos3"]
-        arandanos1 = request.form["arandanos1"]
-        duraznos = request.form["duraznos"]
         
         frutillas = 6000 if frutillas == "" else frutillas
-        cerezas2 = 6000 if cerezas2 == "" else cerezas2
-        cerezas5 = 11000 if cerezas5 == "" else cerezas5
-        paltas = 5000 if paltas == "" else paltas
-        arandanos3 = 3000 if arandanos3 == "" else arandanos3
-        arandanos1 = 8000 if arandanos1 == "" else arandanos1
-        duraznos = 6000 if duraznos == "" else duraznos
+        uvas = 5000 if uvas == "" else cerezas5
+        paltas = 6000 if paltas == "" else paltas
         
         if len(telefono) < 8:
             error = "Telefono no válido."
         else:
             telefono = "+569" + telefono.strip().replace(" ", "")[-8:]
+            print("Hola")
             return redirect(url_for(
                 "difusion_datos_multiples",
                 nombre=nombre, apellido=apellido, numero=telefono,
-                frutillas=frutillas,
-                cerezas2=cerezas2, cerezas5=cerezas5, paltas=paltas,
-                arandanos3=arandanos3, arandanos1=arandanos1,
-                duraznos=duraznos))
+                frutillas=frutillas, uvas=uvas, paltas=paltas))
     return render_template('difusion_multiple.html', error=error)
 
 @app.route(
     "/difusion_multiple/<nombre>-<apellido>-<numero>-<frutillas>-"+
-    "<cerezas2>-<cerezas5>-<paltas>-<arandanos3>-<arandanos1>-<duraznos>")
+    "<uvas>-<paltas>")
 def difusion_datos_multiples(nombre, apellido, numero,
-                   frutillas, cerezas2, cerezas5, paltas,
-                   arandanos3, arandanos1, duraznos):
+                   frutillas, uvas, paltas):
     file = agregar_datos_multiples(nombre, apellido, numero,
-                                   frutillas, cerezas2, cerezas5, paltas,
-                                   arandanos3, arandanos1, duraznos)
+                                   frutillas, uvas, paltas)
     return send_file(file, mimetype='image/gif')
 
 @app.route("/excel_vendedor")
@@ -101,4 +89,4 @@ def construccion():
     return "Página en construcción"
 
 if __name__ == "__main__":
-    app.run(host="0.0.0.0")
+    app.run(host="0.0.0.0", debug=True)

diff --git a/grafica/datos.py b/grafica/datos.py
@@ -42,11 +42,8 @@ def agregar_datos(nombre, apellido, numero, fruta="frutillas", precio=6500):
     return file
 
 def agregar_datos_multiples(nombre, apellido, numero,
-                            frutillas=6000,
-                            cerezas2=6000, cerezas5=11000,
-                            paltas=5000,
-                            arandanos3=3000, arandanos1=8000,
-                            duraznos=6000):
+                            frutillas=6000, uvas=5000,
+                            paltas=6000):
     numero = str(numero)[-8:]
     numero = "+56 9 {} {}".format(numero[:4],numero[4:])
     img = Image.open("grafica/Fotos/todos.jpg")
@@ -61,14 +58,15 @@ def agregar_datos_multiples(nombre, apellido, numero,
     draw = ImageDraw.Draw(img)
     font = ImageFont.truetype("grafica/Fuentes/BebasNeue.otf", 200)
     y_p = 430
-    draw.text((60, y_p), precio(paltas), (255, 255, 255), font) # Paltas
-    draw.text((660, y_p), precio(arandanos3), (255, 255, 255), font) # Arandanos
-    draw.text((1260, y_p), precio(frutillas), (255, 255, 255), font) # Frutillas
-    draw.text((1860, y_p), precio(cerezas2), (255, 255, 255), font) # Cerezas
-    draw.text((2460, y_p), precio(duraznos), (255, 255, 255), font) # Duraznos
+    #y_p = 2200
+    draw.text((280, y_p), precio(paltas), (255, 255, 255), font) # Paltas    #draw.text((660, y_p), precio(arandanos3), (255, 255, 255), font) # Arandanos
+    draw.text((1280, y_p), precio(frutillas), (255, 255, 255), font) # Frutillas
+    draw.text((2280, y_p), precio(uvas), (255, 255, 255), font) # Uvas
+    #draw.text((1860, y_p), precio(cerezas2), (255, 255, 255), font) # Cerezas
+    #draw.text((2460, y_p), precio(duraznos), (255, 255, 255), font) # Duraznos
     y_p = 2200
-    draw.text((660, y_p), precio(arandanos1), (255, 255, 255), font) # Arandanos
-    draw.text((1860-20, y_p), precio(cerezas5), (255, 255, 255), font) # Cerezas
+    #draw.text((660, y_p), precio(arandanos1), (255, 255, 255), font) # Arandanos
+    #draw.text((1860-20, y_p), precio(cerezas5), (255, 255, 255), font) # Cerezas
     file = "grafica/Vendedores/Multiple {} {}.jpg".format(nombre, apellido)
     img.save(file)
     return file
